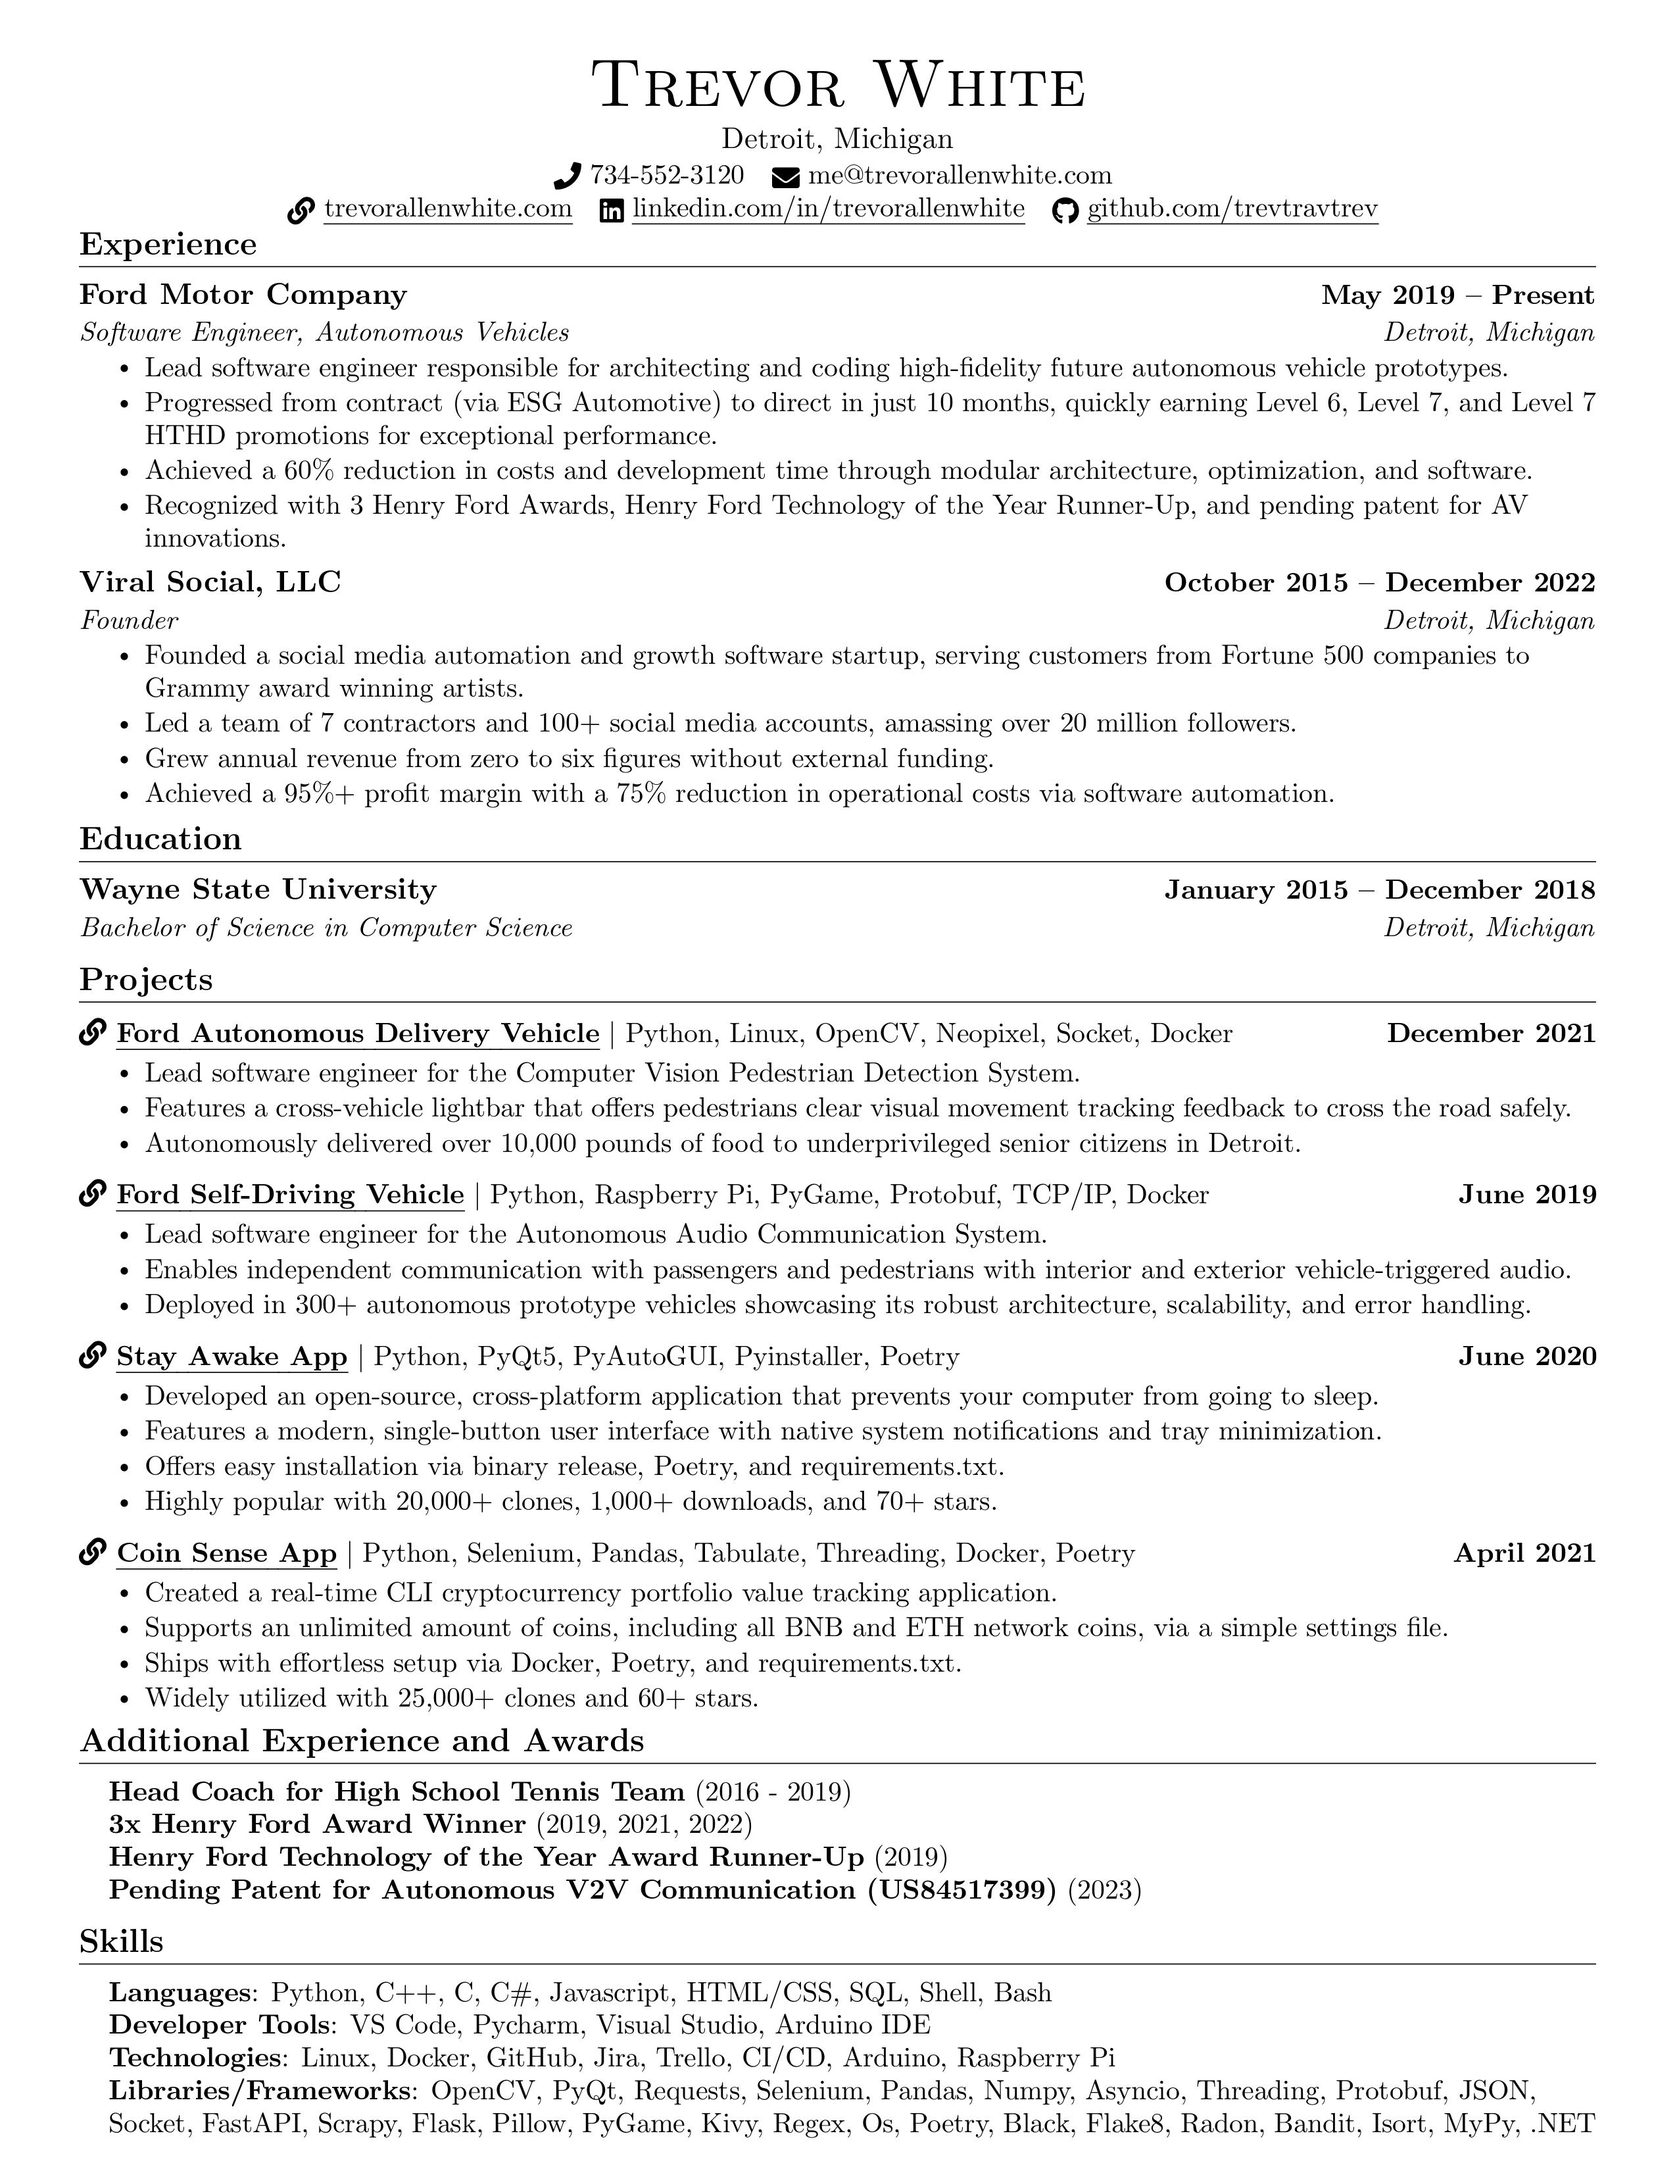
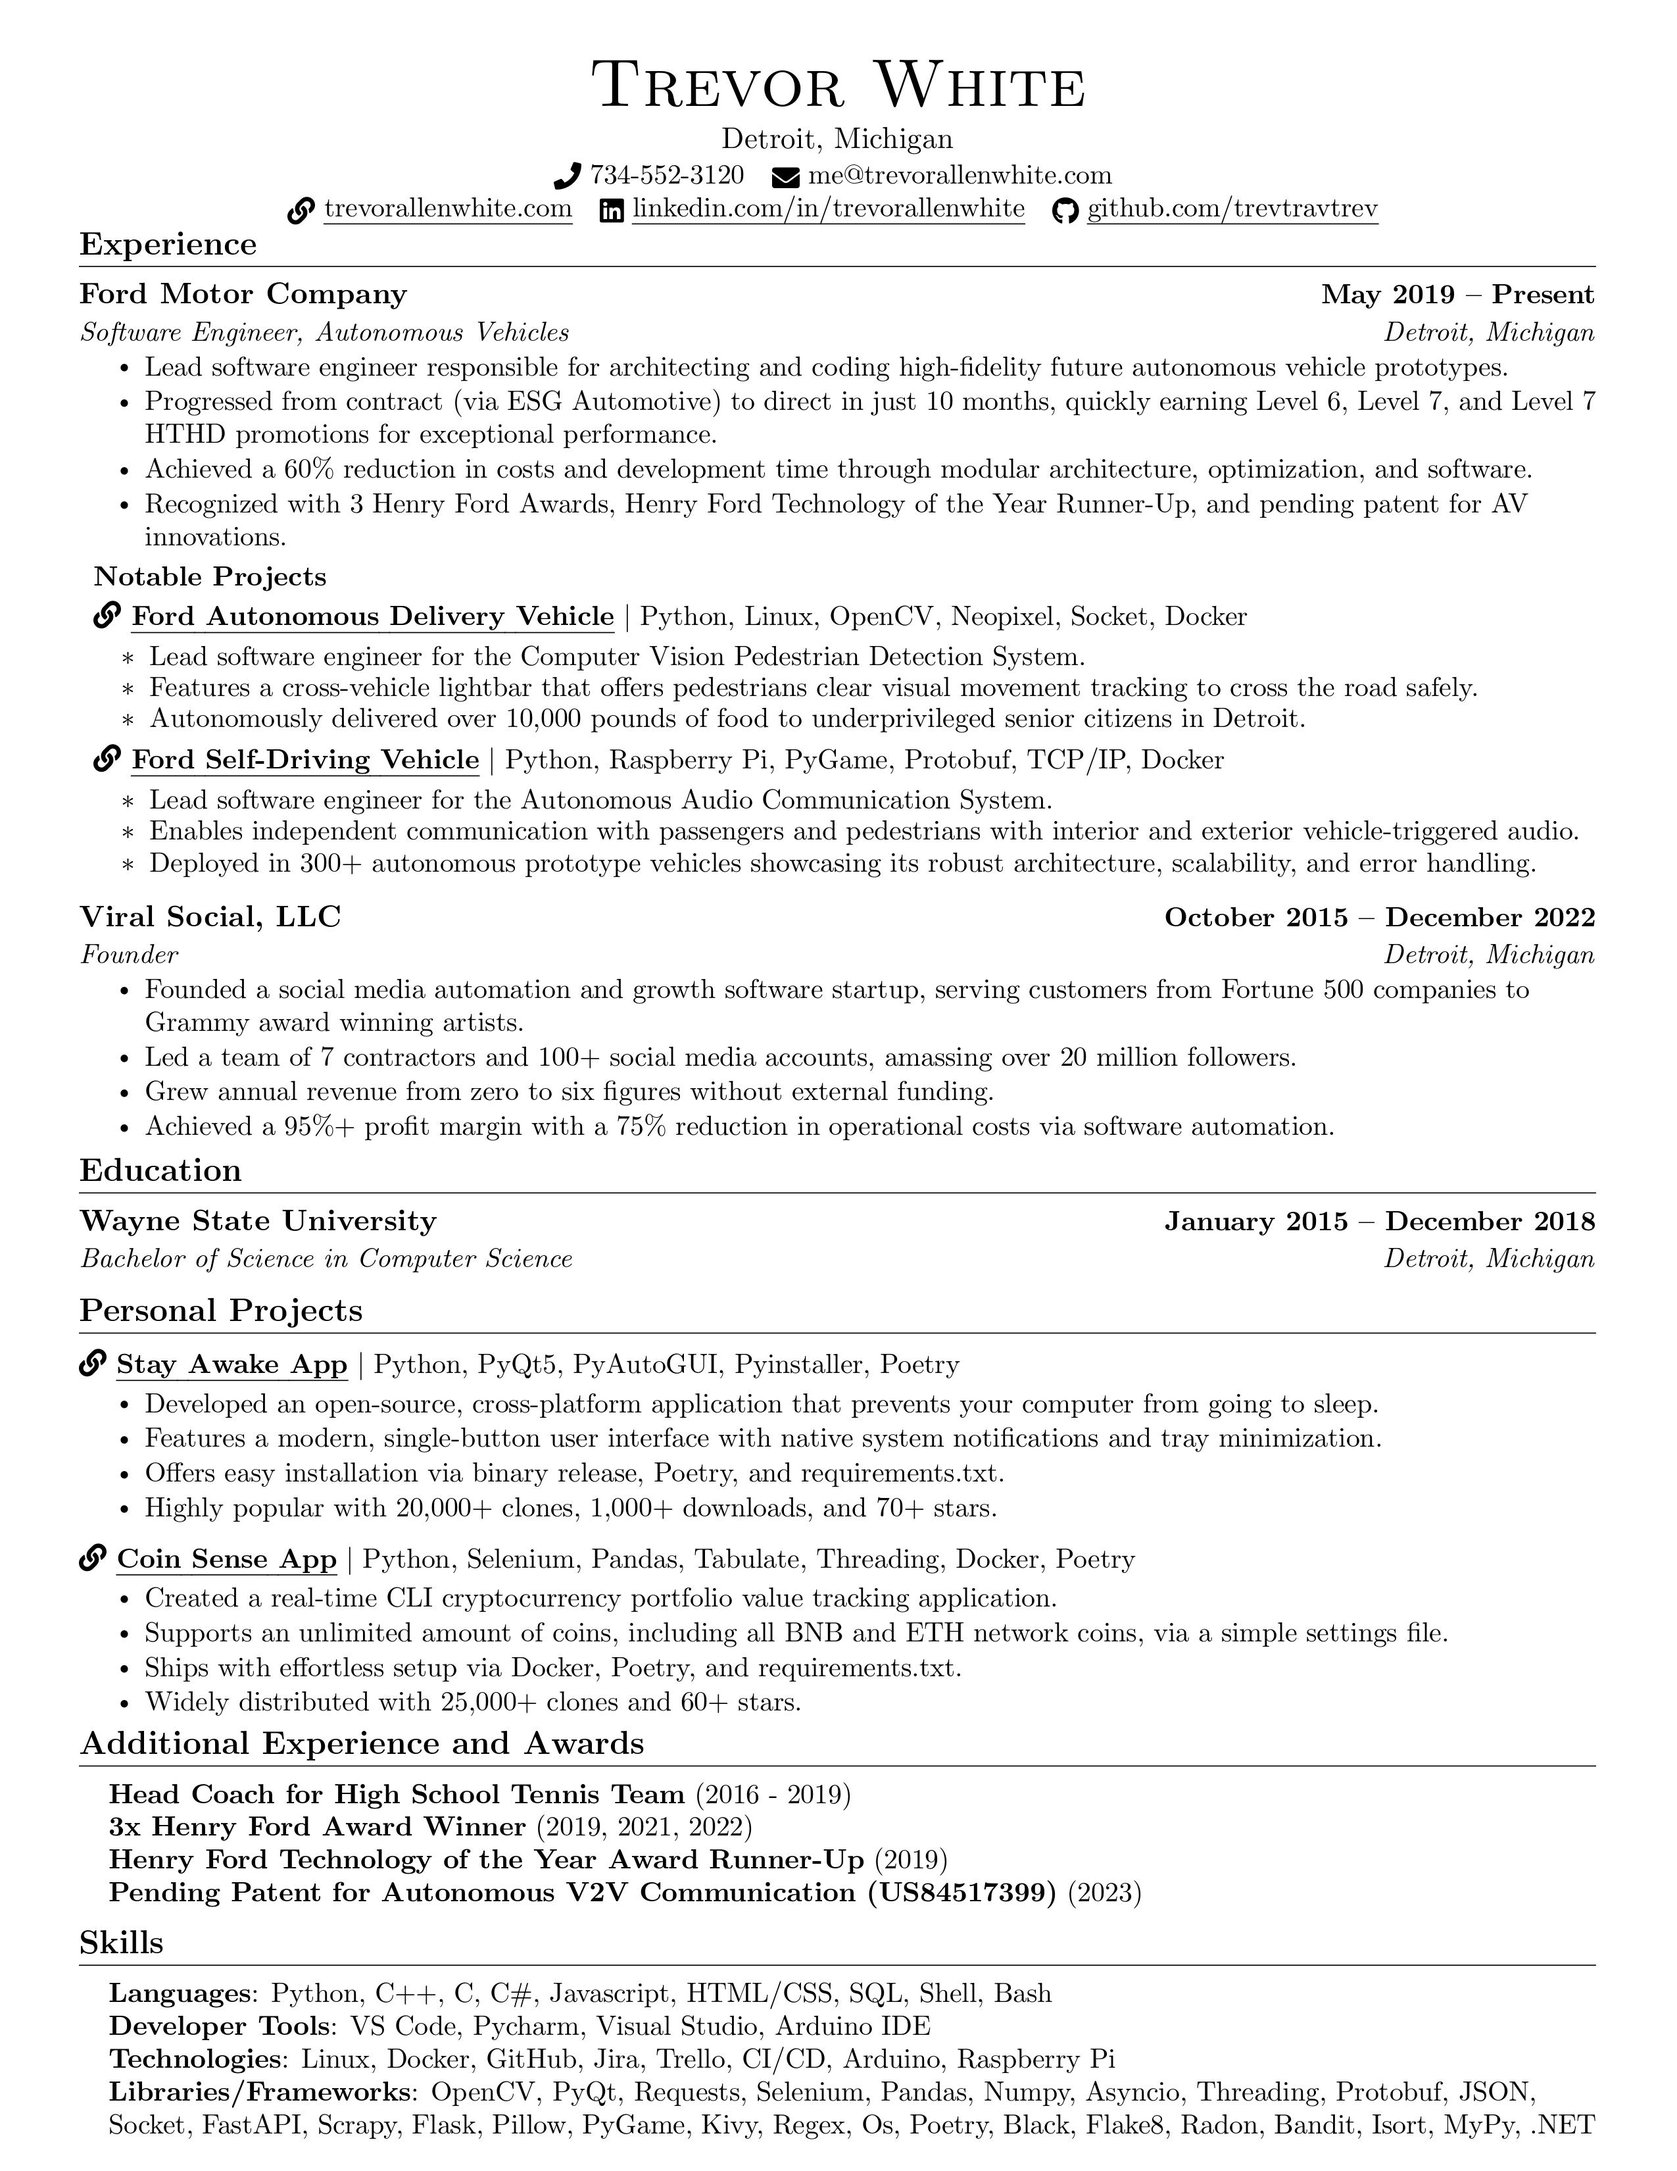
Moved work projects under work experience.

diff --git a/resume.tex b/resume.tex
@@ -137,7 +137,6 @@
 %-----------EXPERIENCE-----------
 \section{Experience}
   \resumeSubHeadingListStart
-
     \resumeSubheading
       {Ford Motor Company}{May 2019 -- Present}
       {Software Engineer, Autonomous Vehicles}{Detroit, Michigan}
@@ -147,7 +146,31 @@
         \resumeItem{Achieved a 60\% reduction in costs and development time through modular architecture, optimization, and software.}
         \resumeItem{Recognized with 3 Henry Ford Awards, Henry Ford Technology of the Year Runner-Up, and pending patent for AV innovations.}
       \resumeItemListEnd
-
+        \vspace{-4pt}
+         \begin{itemize}[leftmargin=0.075in, label={}]
+    \small{\item{
+     \textbf{Notable Projects} \\
+     \vspace{-11pt}
+        \resumeProjectHeading
+            {\textbf{\href{https://www.detroitnews.com/story/business/autos/ford/2021/12/14/ford-autonomous-shuttle-deliver-food-detroit-senior-citizens/6498168001/}{\faLink\ \uline {Ford Autonomous Delivery Vehicle}}} $|$ Python, Linux, OpenCV, Neopixel, Socket, Docker}{}
+            \vspace{-5pt}
+          \resumeItemListStart
+            \resumeItem{Lead software engineer for the Computer Vision Pedestrian Detection System.}
+            \resumeItem{Features a cross-vehicle lightbar that offers pedestrians clear visual movement tracking to cross the road safely.}
+            \resumeItem{Autonomously delivered over 10,000 pounds of food to underprivileged senior citizens in Detroit.}
+          \resumeItemListEnd
+          \vspace{-6pt}
+      \resumeProjectHeading
+          {\textbf{\href{https://www.cnet.com/roadshow/news/argo-ai-third-generation-self-driving-development-car-detroit/}{\faLink\ \uline{Ford Self-Driving Vehicle}}} $|$ Python, Raspberry Pi, PyGame, Protobuf, TCP/IP, Docker}{}
+        \vspace{-5pt}
+          \resumeItemListStart
+            \resumeItem{Lead software engineer for the Autonomous Audio Communication System.}
+            \resumeItem{Enables independent communication with passengers and pedestrians with interior and exterior vehicle-triggered audio.}
+            \vspace{-11.5pt}
+            \resumeItem{Deployed in 300+ autonomous prototype vehicles showcasing its robust architecture, scalability, and error handling.}
+          \resumeItemListEnd 
+    }}
+ \end{itemize}
     \resumeSubheading
       {Viral Social, LLC}{October 2015 -- December 2022}
       {Founder}{Detroit, Michigan}
@@ -170,29 +193,11 @@
 
 
 %-----------PROJECTS-----------
-\section{Projects}
+\section{Personal Projects}
     \vspace{-5pt}
-    \resumeSubHeadingListStart
+    \resumeSubHeadingListStart          
       \resumeProjectHeading
-          {\textbf{\href{https://www.detroitnews.com/story/business/autos/ford/2021/12/14/ford-autonomous-shuttle-deliver-food-detroit-senior-citizens/6498168001/}{\faLink\ \uline {Ford Autonomous Delivery Vehicle}}} $|$ Python, Linux, OpenCV, Neopixel, Socket, Docker}{December 2021}
-            \vspace{-12pt}
-          \resumeItemListStart
-            \resumeItem{Lead software engineer for the Computer Vision Pedestrian Detection System.}
-            \resumeItem{Features a cross-vehicle lightbar that offers pedestrians clear visual movement tracking feedback to cross the road safely.}
-            \resumeItem{Autonomously delivered over 10,000 pounds of food to underprivileged senior citizens in Detroit.}
-          \resumeItemListEnd
-          \vspace{-13pt}
-      \resumeProjectHeading
-          {\textbf{\href{https://www.cnet.com/roadshow/news/argo-ai-third-generation-self-driving-development-car-detroit/}{\faLink\ \uline{Ford Self-Driving Vehicle}}} $|$ Python, Raspberry Pi, PyGame, Protobuf, TCP/IP, Docker}{June 2019}
-        \vspace{-12pt}
-          \resumeItemListStart
-            \resumeItem{Lead software engineer for the Autonomous Audio Communication System.}
-            \resumeItem{Enables independent communication with passengers and pedestrians with interior and exterior vehicle-triggered audio.}
-            \resumeItem{Deployed in 300+ autonomous prototype vehicles showcasing its robust architecture, scalability, and error handling.}
-          \resumeItemListEnd 
-          \vspace{-13pt}
-      \resumeProjectHeading
-          {\textbf{\href{https://github.com/trevtravtrev/StayAwake}{\faLink\ \uline{Stay Awake App}}} $|$ Python, PyQt5, PyAutoGUI, Pyinstaller, Poetry}{June 2020}
+          {\textbf{\href{https://github.com/trevtravtrev/StayAwake}{\faLink\ \uline{Stay Awake App}}} $|$ Python, PyQt5, PyAutoGUI, Pyinstaller, Poetry}{}
         \vspace{-12pt}
           \resumeItemListStart
             \resumeItem{Developed an open-source, cross-platform application that prevents your computer from going to sleep.}
@@ -202,13 +207,13 @@
           \resumeItemListEnd 
           \vspace{-13pt}
       \resumeProjectHeading
-          {\textbf{\href{https://github.com/trevtravtrev/CoinSense}{\faLink\ \uline{Coin Sense App}}} $|$ Python, Selenium, Pandas, Tabulate, Threading, Docker, Poetry}{April 2021}
+          {\textbf{\href{https://github.com/trevtravtrev/CoinSense}{\faLink\ \uline{Coin Sense App}}} $|$ Python, Selenium, Pandas, Tabulate, Threading, Docker, Poetry}{}
         \vspace{-12pt}
           \resumeItemListStart
             \resumeItem{Created a real-time CLI cryptocurrency portfolio value tracking application.}
             \resumeItem{Supports an unlimited amount of coins, including all BNB and ETH network coins, via a simple settings file.}
             \resumeItem{Ships with effortless setup via Docker, Poetry, and requirements.txt.}
-            \resumeItem{Widely utilized with 25,000+ clones and 60+ stars.}
+            \resumeItem{Widely distributed with 25,000+ clones and 60+ stars.}
           \resumeItemListEnd 
     \resumeSubHeadingListEnd
 \vspace{-15pt}
